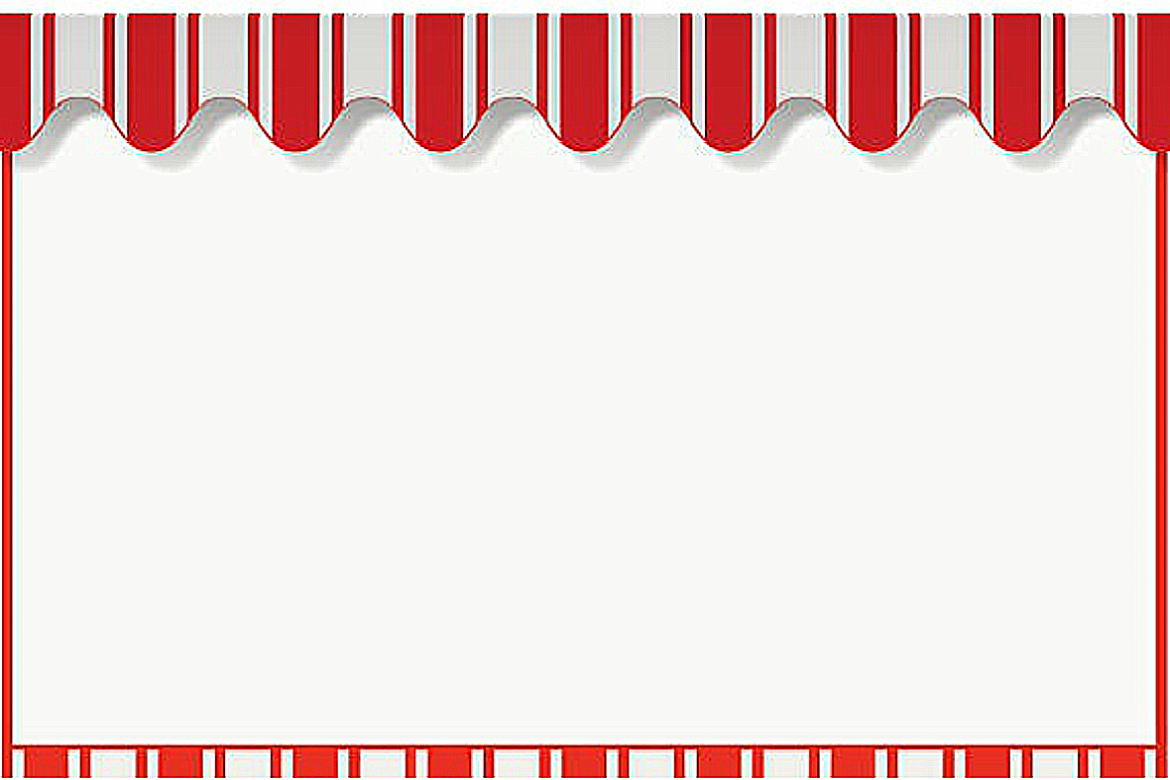
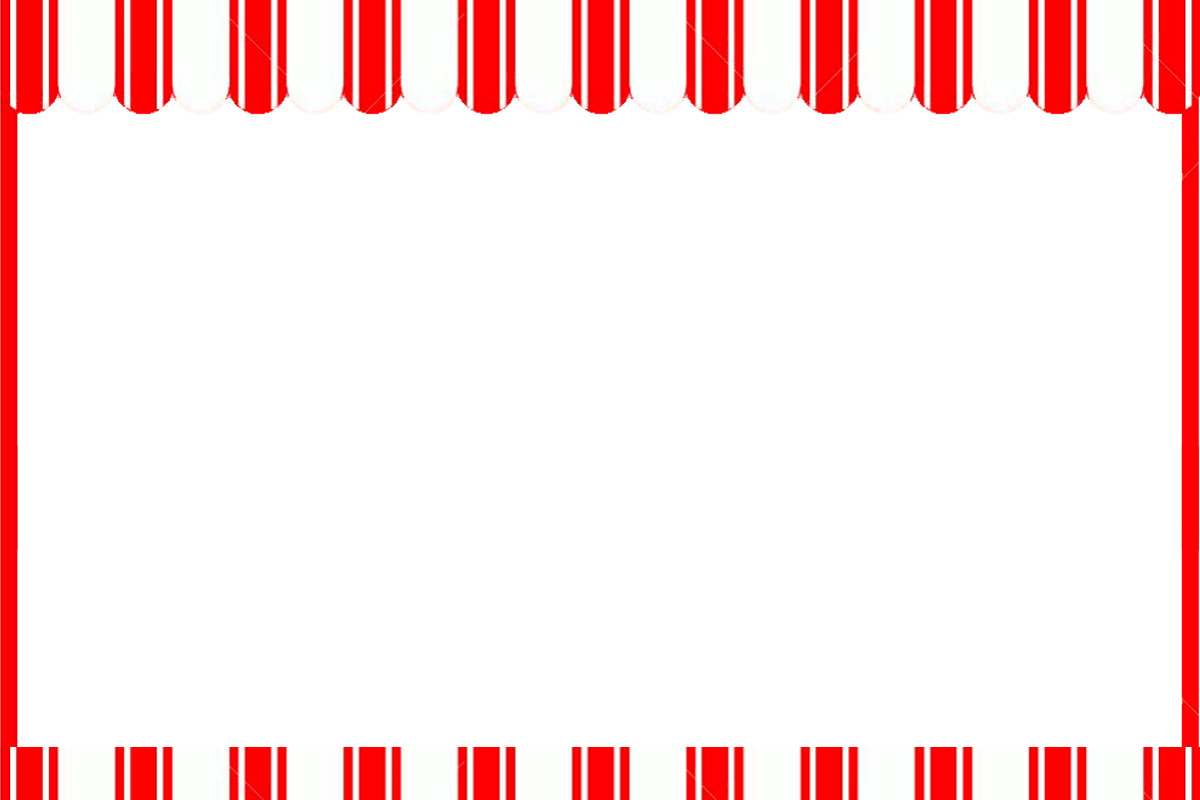
store

Changed region(s): [[0.0, 0.0, 1.0, 1.0]]

diff --git a/src/mainMenuAreejVickie/StoreAreej.java b/src/mainMenuAreejVickie/StoreAreej.java
@@ -22,6 +22,8 @@ public class StoreAreej extends FullFunctionScreen{
 
 	@Override
 	public void initAllObjects(List<Visible> viewObjects) {
+		
+		Graphic background = new Graphic(0,0, 1185, getHeight(), "resources/tent.png");
 		Graphic bear = new Graphic(10,10, 100, 100, "resources/bear.png");
 		
 		menu = new Button(10, 600, 50, 50, "menu", Color.blue, new Action() {
@@ -42,6 +44,7 @@ public class StoreAreej extends FullFunctionScreen{
 			
 		});
 		
+		viewObjects.add(background);
 		viewObjects.add(bear);
 		viewObjects.add(menu);
 		viewObjects.add(inventory);
